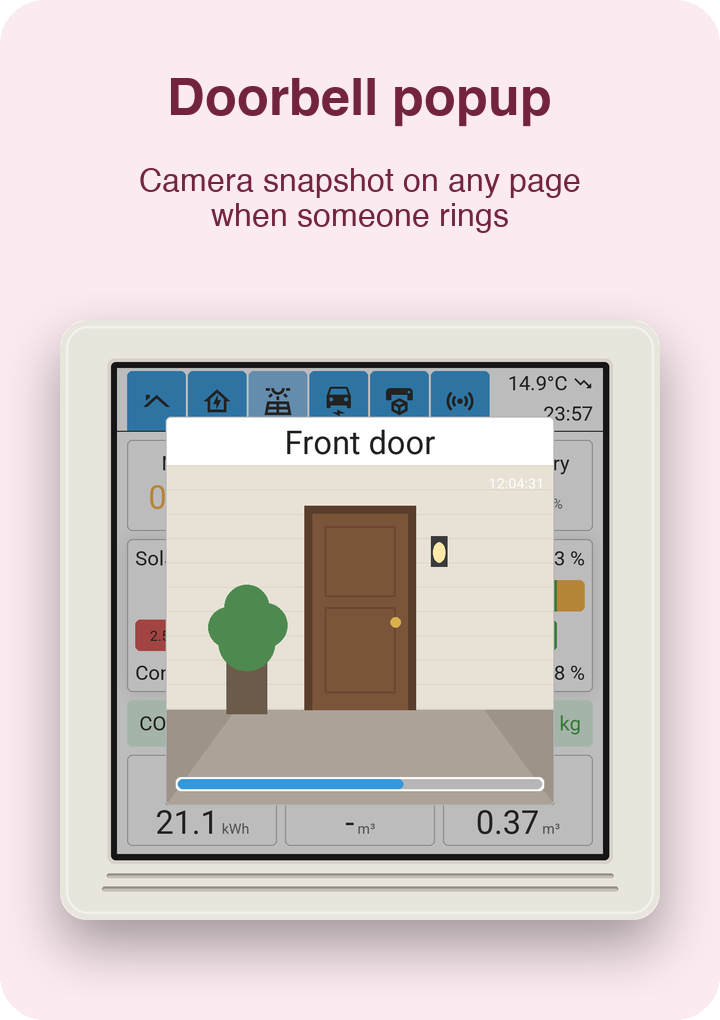
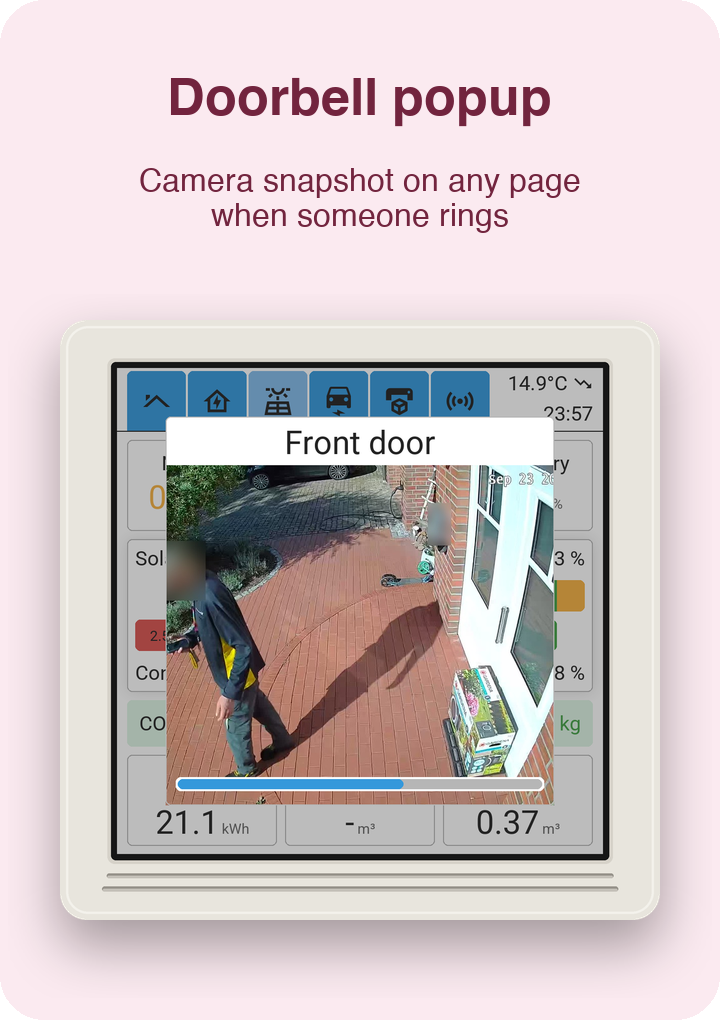
README: real doorbell snapshot, hero without text, drop old photos
- Doorbell example now uses a real front camera snapshot (face and
  house number blurred)
- Hero banner without title text (the README heading is right above)
- Remove the old example photos, the example cards replace them

Changed region(s): [[0.2139, 0.4559, 0.7944, 0.7902]]

diff --git a/README.md b/README.md
@@ -23,10 +23,6 @@ A mobile control panel with LCD touchscreen for smart home operation. Convenient
 
 ![Assembly overview](./print/zsb/full.png)
 
-| Example 1 | Example 2 |
-| --------- | --------- |
-| <img src="./print/example_1.jpg" width="300" > | <img src="./print/example_2.jpg" width="300" > |
-
 ## Examples
 
 Some of the pages I use on my own panels (ESPHome + LVGL, 480×480 px). The images are clean renderings of the real screens, drawn from the actual layout and design tokens.
